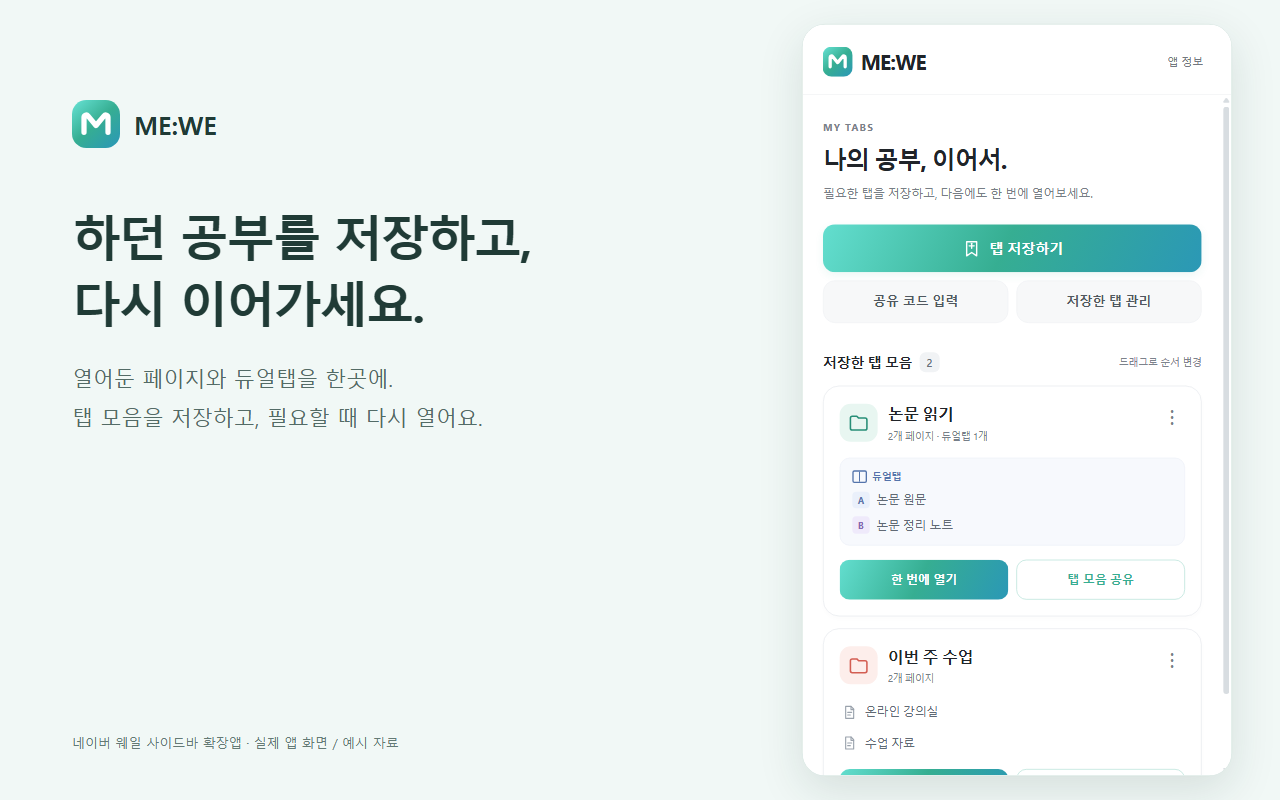
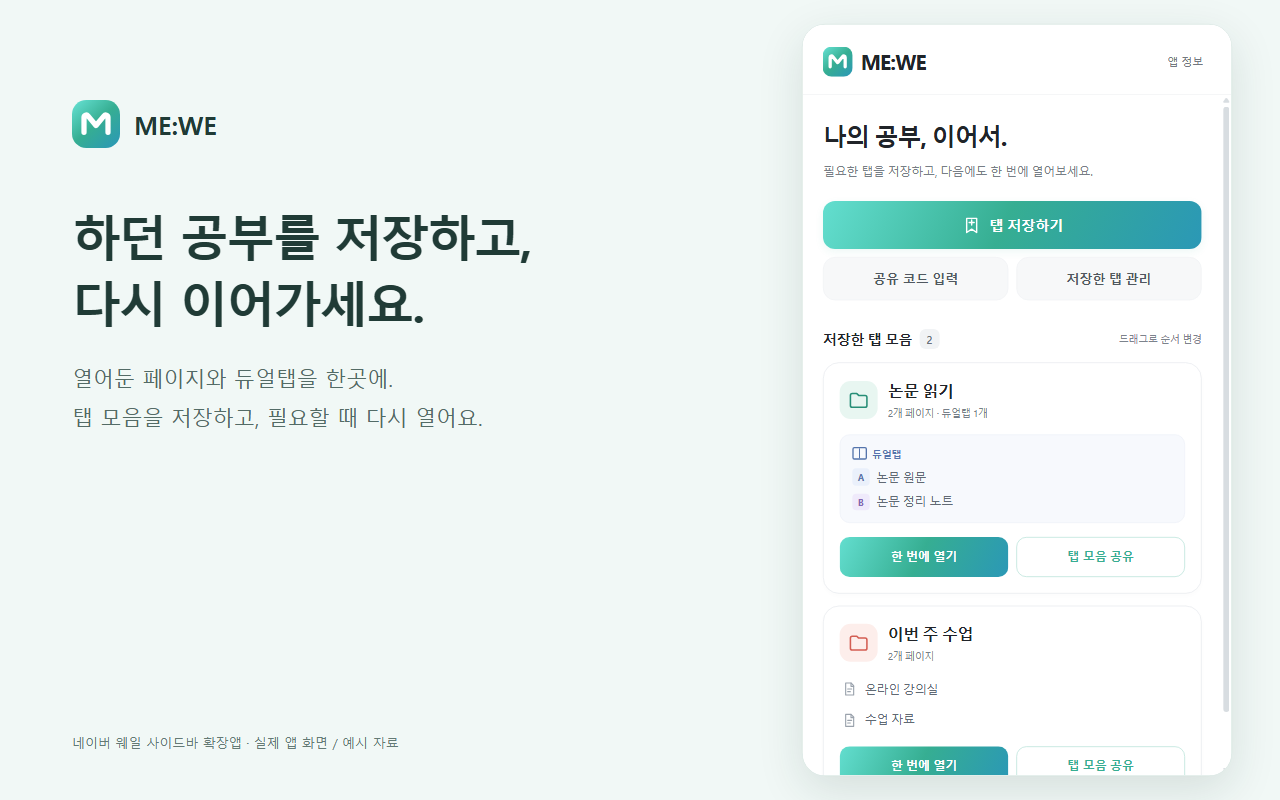
첫 화면 문구와 카드 중복 메뉴 제거

Changed region(s): [[0.625, 0.1562, 0.9375, 0.75], [0.6562, 0.7812, 0.875, 0.9688], [0.875, 0.4062, 0.9375, 0.4688]]

diff --git a/docs/privacy/index.html b/docs/privacy/index.html
@@ -3,5 +3,5 @@
 <section><h2>공유할 때 서버로 전송하는 정보</h2><p>공유 코드 복사를 누르면 미리보기에 표시된 탭 모음 이름과 공유 가능한 웹페이지 제목·URL·순서·듀얼탭 구성·페이지 식별자, 익명 사용자 ID, 생성·만료 시각 및 데이터 형식 버전을 Google Firebase Cloud Firestore에 저장합니다. 목적은 공유 코드 생성과 해당 탭 모음의 전달입니다.</p><p>로컬 파일의 이름·경로·내용과 브라우저 탭 ID는 공유 문서에서 제외합니다. 쿠키, 웹사이트 로그인 세션, 페이지 본문을 수집해 전송하지 않습니다. 다만 웹 주소 자체에는 검색어, 개인 식별 정보 또는 문서 접근 토큰이 포함될 수 있으므로 공유 전에 주소를 확인해야 합니다.</p><p>공유와 받기는 선택 기능입니다. 이를 사용하지 않아도 개인 탭 모음을 저장하고 다시 열 수 있습니다. 공유 기능을 처음 이용할 때 개인정보 수집·이용과 국외 이전에 각각 동의한 뒤 실행 버튼을 누르면 동의 기록을 저장하고 Firebase 익명 인증을 사용합니다. 체크만 하고 닫으면 동의 기록이나 인증 요청을 만들지 않습니다. 같은 브라우저에서는 공유하기·공유받기에 동의를 공통 적용하며, 동의 범위 변경·기록 초기화 또는 다른 브라우저에서 이용할 때는 다시 동의를 받습니다. 이름·이메일·비밀번호를 입력하는 별도 회원가입을 요구하지 않습니다.</p></section>
 <section><h2>공유 범위와 유효기간</h2><p>공유 코드를 알고 있는 사람은 앱을 통해 유효기간 안에 공유된 페이지 목록을 확인할 수 있습니다. 코드 소지는 원본 웹사이트의 로그인·열람 권한을 대신하지 않습니다. 공유 유효기간은 생성 시점부터 7일입니다.</p><p>정상 생성한 공유 코드는 7일 후 조회가 차단됩니다. 코드 만료 즉시 문서가 삭제되는 것은 아닙니다. 담당자 정희진이 만료 자료를 매주 정리하며 공유 문서는 생성 후 최대 14일 이내에 운영 데이터베이스에서 삭제합니다. 현재 서버의 자동 삭제 작업은 사용하지 않습니다.</p><p>저장한 탭 모음을 수정·삭제하거나 앱을 제거해도 이미 생성한 서버 공유본은 삭제되지 않습니다. 현재 앱에는 공유본 삭제·중단 버튼이 없습니다. 삭제·처리 정지는 문의 이메일로 요청할 수 있습니다. 받는 사람이 이미 저장한 복사본까지 원격으로 회수할 수는 없습니다.</p></section>
 <section><h2>외부 서비스 및 처리 위치</h2><p>Google Firebase의 Authentication은 익명 인증을, Cloud Firestore는 공유 정보 저장·조회를 담당합니다. Firebase 인증 서비스는 부정 사용 방지를 위해 IP 주소와 브라우저 정보 등을 처리할 수 있습니다. 별도의 광고·사용 분석 SDK는 앱에 포함하지 않습니다.</p><p>공유 문서를 저장하는 Cloud Firestore 데이터베이스의 설정 위치는 대한민국 서울(asia-northeast3)입니다. Firebase Authentication은 이 설정과 별개로 미국에서 처리됩니다.</p><p>인증 정보의 국외 처리 수탁자는 Google LLC(Firebase)이며, 이전 국가는 미국입니다. 공유 생성 또는 코드 확인 시 HTTPS 통신으로 임시 사용자 ID, 인증·갱신 토큰, IP 주소 및 브라우저 정보가 처리됩니다. 목적은 요청자 인증, 공유 서비스 제공 및 부정 사용 방지입니다. Google의 문의 창구는 아래 Firebase 지원 링크에서 확인할 수 있습니다.</p><p>익명 인증 계정은 공유 인증 유지 기간 동안 보관하며, 이용 종료·동의 철회·계정 삭제를 요청하면 필요한 본인 확인 후 삭제 처리합니다. 앱 삭제만으로 서버 인증 계정이 삭제되지는 않습니다. Firebase 안내에 따르면 인증 IP 로그는 수 주 보관되고 계정 삭제 후 인증 정보는 운영·백업 시스템에서 최대 180일 이내 제거됩니다. 이 공급자 보관 기간은 ME:WE 공유 문서의 최대 14일 보관 기간과 다릅니다.</p><p>국외 처리를 거부하려면 공유 기능에 동의하지 않으면 됩니다. 거부 시 공유 생성·코드 확인은 이용할 수 없지만 개인 탭 모음 저장·수정·열기는 계속 사용할 수 있습니다. 이미 동의한 경우 앱 정보의 ‘이 기기에서 공유 사용 중지’로 동의 기록과 받은 미리보기를 삭제하고 추가 공유 요청을 중단할 수 있습니다. 이는 이미 전송된 서버 자료나 인증 계정을 삭제하는 절차가 아니므로, 서버 정보 삭제·처리 정지·동의 철회는 담당자에게 요청할 수 있습니다. 웹페이지를 열면 해당 사이트에 직접 접속하며 그 사이트의 개인정보 처리방침이 적용됩니다.</p><p><a href="https://firebase.google.com/support/privacy" rel="noopener noreferrer">Firebase 개인정보 및 보안 안내</a></p><p><a href="https://firebase.google.com/support" rel="noopener noreferrer">Firebase 지원·문의</a></p></section>
-<section><h2>보관과 삭제</h2><p>개인 탭 모음은 사용자가 카드 메뉴에서 삭제할 수 있습니다. 삭제는 브라우저 탭이나 원본 파일을 삭제하지 않습니다. 확장앱 제거 시 브라우저가 앱의 로컬 저장소를 제거하며, 이것은 Firebase의 공유 문서나 익명 계정 삭제를 뜻하지 않습니다.</p><p>탭 실행 추적용 세션 정보는 브라우저 종료 또는 확장앱 다시 로드 시 초기화됩니다. 서버 공유 문서와 익명 계정은 각각 별도 삭제가 필요합니다.</p><p>문의 시 이메일 주소와 문의 내용·첨부 자료를 문의 응대와 권리 행사 처리 목적으로 이용합니다. 메일과 개인 정보가 포함된 처리 기록은 처리 완료 후 30일 이내 삭제하며, 삭제 시 휴지통의 사본도 함께 정리합니다. 문의에 불필요한 개인 정보는 보내지 마세요.</p><p>삭제 대상 전자 기록은 운영 저장소에서 삭제해 복구·재사용하지 않도록 처리합니다. 별도의 민감정보·고유식별정보 입력을 요구하지 않으며 브라우저 쿠키나 웹사이트 로그인 정보도 수집하지 않습니다. 서비스 제공 과정에서 Google이 처리하는 로그·백업은 위 공급자 정책을 따릅니다.</p></section>
+<section><h2>보관과 삭제</h2><p>개인 탭 모음은 사용자가 ‘저장한 탭 관리’에서 삭제할 수 있습니다. 삭제는 브라우저 탭이나 원본 파일을 삭제하지 않습니다. 확장앱 제거 시 브라우저가 앱의 로컬 저장소를 제거하며, 이것은 Firebase의 공유 문서나 익명 계정 삭제를 뜻하지 않습니다.</p><p>탭 실행 추적용 세션 정보는 브라우저 종료 또는 확장앱 다시 로드 시 초기화됩니다. 서버 공유 문서와 익명 계정은 각각 별도 삭제가 필요합니다.</p><p>문의 시 이메일 주소와 문의 내용·첨부 자료를 문의 응대와 권리 행사 처리 목적으로 이용합니다. 메일과 개인 정보가 포함된 처리 기록은 처리 완료 후 30일 이내 삭제하며, 삭제 시 휴지통의 사본도 함께 정리합니다. 문의에 불필요한 개인 정보는 보내지 마세요.</p><p>삭제 대상 전자 기록은 운영 저장소에서 삭제해 복구·재사용하지 않도록 처리합니다. 별도의 민감정보·고유식별정보 입력을 요구하지 않으며 브라우저 쿠키나 웹사이트 로그인 정보도 수집하지 않습니다. 서비스 제공 과정에서 Google이 처리하는 로그·백업은 위 공급자 정책을 따릅니다.</p></section>
 <section><h2>보호 조치와 변경 안내</h2><p>서버 통신에는 HTTPS와 Firebase 인증 토큰을 사용합니다. Firestore 규칙은 전체 목록 조회와 공유본 수정을 차단하고, 유효기간 및 생성 데이터 형식을 확인합니다. 공유 코드와 주소를 전달할 상대는 신중하게 선택해 주세요.</p><p>이 안내는 현재 0.3.1 구현을 기준으로 작성했습니다. 2026년 10월 23일에는 화면의 ‘탭 모음’ 명칭과 사용자가 요청한 클립보드 붙여넣기 처리를 반영했습니다. 서버로 보내는 정보·처리 목적·보관 기간과 기존 공유 동의 범위는 동일합니다. 내용이 바뀌면 앱 정보와 공개 개인정보 페이지에 변경 내용·시행일을 안내하며, 처리 목적·항목·보관 방법이 변경되면 실제 구현과 필요한 동의 절차도 함께 갱신합니다.</p></section></main></body></html>

diff --git a/features/study-widget/view.js b/features/study-widget/view.js
@@ -46,7 +46,7 @@ export function mount(container, services) {
   }, "btn");
   manage.setAttribute("aria-pressed", "false");
   container.replaceChildren(
-    el("div", { className: "intro" }, el("span", { className: "intro-label" }, "MY TABS"), el("h1", {}, "나의 공부, 이어서."), el("p", { className: "muted" }, "필요한 탭을 저장하고, 다음에도 한 번에 열어보세요.")),
+    el("div", { className: "intro" }, el("h1", {}, "나의 공부, 이어서."), el("p", { className: "muted" }, "필요한 탭을 저장하고, 다음에도 한 번에 열어보세요.")),
     capture,
     el("div", { className: "actions" },
       button("공유 코드 입력", () => openReceive(services), "btn"),
@@ -68,16 +68,8 @@ export function mount(container, services) {
         const card = el("article", { className: "card workspace-card", draggable: true, tabIndex: 0, "data-workspace-id": w.id, "aria-label": w.name, "aria-keyshortcuts": "Alt+ArrowUp Alt+ArrowDown" });
         const tone = [...w.id].reduce((sum, char) => sum + char.charCodeAt(0), 0) % 7;
         const folder = el("span", { className: `workspace-symbol tone-${tone}`, "aria-hidden": "true" }, icon("folder"));
-        const menu = el("div", { className: "workspace-menu", hidden: true });
-        const toggle = button("⋮", () => { menu.hidden = !menu.hidden; }, "icon-button");
-        toggle.setAttribute("aria-label", `${w.name} 메뉴`);
-        toggle.hidden = managing;
-        menu.append(
-          button("수정", () => { menu.hidden = true; openEditor(services, w); }, "text-button"),
-          button("삭제", () => { menu.hidden = true; confirmDelete(w); }, "text-button danger")
-        );
         card.append(
-          el("div", { className: "workspace-card-header" }, folder, el("div", { className: "workspace-heading" }, el("h3", {}, w.name), el("p", { className: "muted" }, `${w.pages.length}개 페이지${dualCount ? ` · 듀얼탭 ${dualCount}개` : ""}`)), toggle, menu),
+          el("div", { className: "workspace-card-header" }, folder, el("div", { className: "workspace-heading" }, el("h3", {}, w.name), el("p", { className: "muted" }, `${w.pages.length}개 페이지${dualCount ? ` · 듀얼탭 ${dualCount}개` : ""}`))),
           el("div", { className: "site-list" }, ...groups.map((group) => group.dual
             ? el("div", { className: "saved-dual-group" }, el("span", { className: "dual-badge" }, "듀얼탭"), ...group.pages.map((p, i) => el("div", { className: "saved-page", title: p.title }, el("span", { className: "page-side", "aria-label": i === 0 ? "왼쪽 페이지" : "오른쪽 페이지" }, i === 0 ? "A" : "B"), el("span", { className: "saved-page-title" }, p.title))))
             : el("div", { className: "saved-page single-page", title: group.pages[0].title }, icon("page"), el("span", { className: "saved-page-title" }, group.pages[0].title)))),
@@ -87,7 +79,7 @@ export function mount(container, services) {
         const action = button("", (event) => busy(event.currentTarget, () => running ? services.closeWorkspace(w) : services.launch(w), services.toast), `btn ${running ? "workspace-close" : "primary workspace-open"}`);
         action.textContent = running ? "한 번에 닫기" : "한 번에 열기";
         action.setAttribute("aria-label", action.textContent);
-        const share = button("", () => { menu.hidden = true; openShare(services, w); }, "btn workspace-share");
+        const share = button("", () => openShare(services, w), "btn workspace-share");
         share.setAttribute("aria-label", "탭 모음 공유");
         share.textContent = "탭 모음 공유";
         card.querySelector(".workspace-actions").append(action, share);

diff --git a/shared/privacy-content.js b/shared/privacy-content.js
@@ -35,7 +35,7 @@ export const privacy = {
       "국외 처리를 거부하려면 공유 기능에 동의하지 않으면 됩니다. 거부 시 공유 생성·코드 확인은 이용할 수 없지만 개인 탭 모음 저장·수정·열기는 계속 사용할 수 있습니다. 이미 동의한 경우 앱 정보의 ‘이 기기에서 공유 사용 중지’로 동의 기록과 받은 미리보기를 삭제하고 추가 공유 요청을 중단할 수 있습니다. 이는 이미 전송된 서버 자료나 인증 계정을 삭제하는 절차가 아니므로, 서버 정보 삭제·처리 정지·동의 철회는 담당자에게 요청할 수 있습니다. 웹페이지를 열면 해당 사이트에 직접 접속하며 그 사이트의 개인정보 처리방침이 적용됩니다."
     ], links: [{ label: "Firebase 개인정보 및 보안 안내", url: "https://firebase.google.com/support/privacy" }, { label: "Firebase 지원·문의", url: "https://firebase.google.com/support" }] },
     { title: "보관과 삭제", paragraphs: [
-      "개인 탭 모음은 사용자가 카드 메뉴에서 삭제할 수 있습니다. 삭제는 브라우저 탭이나 원본 파일을 삭제하지 않습니다. 확장앱 제거 시 브라우저가 앱의 로컬 저장소를 제거하며, 이것은 Firebase의 공유 문서나 익명 계정 삭제를 뜻하지 않습니다.",
+      "개인 탭 모음은 사용자가 ‘저장한 탭 관리’에서 삭제할 수 있습니다. 삭제는 브라우저 탭이나 원본 파일을 삭제하지 않습니다. 확장앱 제거 시 브라우저가 앱의 로컬 저장소를 제거하며, 이것은 Firebase의 공유 문서나 익명 계정 삭제를 뜻하지 않습니다.",
       "탭 실행 추적용 세션 정보는 브라우저 종료 또는 확장앱 다시 로드 시 초기화됩니다. 서버 공유 문서와 익명 계정은 각각 별도 삭제가 필요합니다.",
       "문의 시 이메일 주소와 문의 내용·첨부 자료를 문의 응대와 권리 행사 처리 목적으로 이용합니다. 메일과 개인 정보가 포함된 처리 기록은 처리 완료 후 30일 이내 삭제하며, 삭제 시 휴지통의 사본도 함께 정리합니다. 문의에 불필요한 개인 정보는 보내지 마세요.",
       "삭제 대상 전자 기록은 운영 저장소에서 삭제해 복구·재사용하지 않도록 처리합니다. 별도의 민감정보·고유식별정보 입력을 요구하지 않으며 브라우저 쿠키나 웹사이트 로그인 정보도 수집하지 않습니다. 서비스 제공 과정에서 Google이 처리하는 로그·백업은 위 공급자 정책을 따릅니다."

diff --git a/shared/refinement.css b/shared/refinement.css
@@ -10,7 +10,6 @@ button:focus-visible,a:focus-visible,input:focus-visible,select:focus-visible,te
 .header-caption{font-size:11px;color:#777e86;white-space:nowrap}
 .view{padding:24px 20px 30px;scrollbar-width:thin;scrollbar-color:#d8dde1 transparent}
 .intro{margin-bottom:20px}
-.intro-label{display:block;font-size:10px;letter-spacing:1.2px;font-weight:700;color:#7b828a;margin-bottom:7px}
 .intro h1{font-size:24px;letter-spacing:-1px;line-height:1.4;font-weight:750}
 .intro .muted{margin:8px 0 0;line-height:1.7;font-size:12px;color:#777e86;word-break:keep-all}
 .btn{min-height:44px;padding:11px 14px;font-size:13px;font-weight:650;border-color:#e4e8eb;transition:background .15s,border-color .15s}
@@ -46,10 +45,6 @@ button:focus-visible,a:focus-visible,input:focus-visible,select:focus-visible,te
 .workspace-heading .muted{font-size:10px;line-height:1.5;margin:3px 0 0;color:#777f89}
 .icon-button{color:#777f89}
 .icon-button:hover{background:#f3f5f7;color:#303943}
-.workspace-card-header>.icon-button{height:30px;width:26px;min-width:26px;line-height:1;align-self:flex-start;font-size:21px}
-.workspace-menu{position:absolute;right:0;top:34px;z-index:2;min-width:112px;padding:5px;background:#fff;border:1px solid #e4e8ed;border-radius:12px;box-shadow:0 8px 24px #1d29351a}
-.workspace-menu button{display:block;width:100%;text-align:left;padding:8px 11px;min-height:36px;border-radius:7px}
-.workspace-menu button:hover{background:#f5f7f9}
 .text-button{color:#434d58}
 .text-button.danger{color:var(--color-error)}
 .study-widget .workspace-card .site-list{margin:14px 0;font-size:12px;line-height:1.5;color:#616a74;display:grid;gap:7px}

diff --git a/features/study-widget/reorder.js b/features/study-widget/reorder.js
@@ -51,7 +51,6 @@ export function workspaceReorder(container, list, { move, refresh, toast }) {
     const card = event.target.closest(".workspace-card");
     if (!card || blocked || saving || cards().length < 2) { event.preventDefault(); return; }
     dragged = card;
-    list.querySelectorAll(".workspace-menu").forEach((menu) => { menu.hidden = true; });
     event.dataTransfer.effectAllowed = "move";
     event.dataTransfer.setData("text/plain", card.dataset.workspaceId);
     pointerY = event.clientY;

diff --git a/docs/final-review.md b/docs/final-review.md
@@ -1,10 +1,10 @@
 # ME:WE 버전별 검토 결과
 
-## 0.3.1 리뷰 반영 — 2026-10-23
+## 0.3.1 리뷰 반영 — 2026-10-23 ~ 2026-10-27
 
 추가 피드백 반영: 링크 추가 버튼을 우측 하단에 작게 배치하고, 관리 모드에 수정·삭제 버튼을 표시했습니다. 복사 알림은 두 줄과 첫 문장 강조로 표시합니다. 공유 미리보기의 바로 열기는 먼저 저장한 모음을 실행합니다. UI 회귀 시험에서 관리 모드 전환, 저장 실패 시 실행 차단, 저장 성공 후 저장된 ID로 실행을 확인했고 단위 시험 33개를 다시 통과했습니다.
 
-화면 명칭, 새/기존 탭 모음 저장 위치, 한 번에 닫기 확인, 공유 전 안내·복사 후 알림, 공유 코드 붙여넣기·미리보기를 갱신했습니다. 기존 데이터 형식과 최초 공유 동의 범위는 유지합니다. 관리 모드에는 수정·삭제 버튼을 직접 표시하고, 기본 카드의 메뉴에서도 같은 기능을 제공합니다.
+화면 명칭, 새/기존 탭 모음 저장 위치, 한 번에 닫기 확인, 공유 전 안내·복사 후 알림, 공유 코드 붙여넣기·미리보기를 갱신했습니다. 기존 데이터 형식과 최초 공유 동의 범위는 유지합니다. 10월 27일에는 첫 화면의 영문 장식 문구와 기본 카드의 점 3개 메뉴를 제거해, 수정·삭제를 관리 모드에서만 하도록 정리했습니다.
 
 | 이번 실행 항목 | 결과·범위 |
 | --- | --- |

diff --git a/CHANGELOG.md b/CHANGELOG.md
@@ -2,7 +2,9 @@
 
 아직 웨일스토어에 공개된 버전은 없습니다. 날짜는 개발·검증일이며, 현재 개발 버전은 **0.3.1**입니다.
 
-## 0.3.1 리뷰 반영 — 2026-10-23
+## 0.3.1 리뷰 반영 — 2026-10-23 ~ 2026-10-27
+
+- 첫 화면의 ‘MY TABS’를 제거하고, 탭 모음 카드의 점 3개 메뉴를 없애 수정·삭제를 ‘저장한 탭 관리’로 통일
 
 - 링크 추가 버튼을 입력 영역 우측 하단에 작게 배치하고, 관리 모드에서 카드에 수정·삭제 버튼을 직접 표시
 - 공유 복사 알림을 두 줄로 표시하고 첫 문장을 강조; ‘바로 열기’는 모음 저장 성공 후 실행하여 카드에서 닫기 지원
@@ -13,7 +15,7 @@
 - 공유 코드 입력란의 붙여넣기 버튼과 ‘탭 불러오기’, 탭 모음 카드 형태의 미리보기·저장·바로 열기 제공
 - 공유 전 로컬 파일 제외와 로그인·권한·기기 환경에 따라 같은 화면이 열리지 않을 수 있음을 안내
 - 클립보드 읽기 권한과 사용자 요청 시에만 읽는 동작을 앱 정보·개인정보 처리방침에 안내
-- 기존 저장 데이터 형식과 공유 동의 범위, 카드 메뉴의 수정·삭제 동작 유지
+- 기존 저장 데이터 형식과 공유 동의 범위 유지
 
 아래 0.3.0 항목은 이전 버전의 변경·검증 기록입니다. 현재 버전의 확인 범위는 [검토 결과](docs/final-review.md)를 확인하세요.
 

diff --git a/docs/user-guide.md b/docs/user-guide.md
@@ -29,7 +29,7 @@
 
 ## 수정과 정렬
 
-**저장한 탭 관리**를 누르면 카드에 **수정·삭제** 버튼이 나타납니다. **관리 완료**로 열기·공유 버튼 화면에 돌아갑니다. 기본 화면의 카드 `⋮`에서도 수정·삭제할 수 있습니다. 수정 화면의 페이지 `⋮ → 탭 모음에서 제거`는 저장할 때 반영됩니다. 듀얼탭 한쪽을 제거하면 남은 쪽은 일반탭으로 저장됩니다. 모든 페이지를 제거한 빈 탭 모음은 저장되지 않습니다.
+**저장한 탭 관리**를 누르면 카드에 **수정·삭제** 버튼이 나타납니다. **관리 완료**로 열기·공유 버튼 화면에 돌아갑니다. 수정 화면의 페이지 `⋮ → 탭 모음에서 제거`는 저장할 때 반영됩니다. 듀얼탭 한쪽을 제거하면 남은 쪽은 일반탭으로 저장됩니다. 모든 페이지를 제거한 빈 탭 모음은 저장되지 않습니다.
 
 탭 모음 전체를 삭제할 때는 확인창에서 **삭제**를 눌러야 반영됩니다. 취소하면 그대로 유지됩니다. 삭제는 되돌릴 수 없으며 이미 열어둔 페이지나 전달한 공유본에는 영향을 주지 않습니다.
 

diff --git a/docs/release-checklist.md b/docs/release-checklist.md
@@ -1,6 +1,6 @@
 # ME:WE 제출 체크리스트
 
-기준일 **2026-10-23** · 앱 **0.3.1** · **리뷰 반영 / 스토어 미제출**
+기준일 **2026-10-27** · 앱 **0.3.1** · **리뷰 반영 / 스토어 미제출**
 
 상세 시험 범위는 [검토 결과](final-review.md)에 기록합니다. 아래 0.3.0 완료 기록과 0.3.1 추가 확인을 구분합니다.
 
@@ -10,7 +10,7 @@
 - [x] 한 번에 닫기 확인창의 취소·모두 닫기와 기존 탭 보호
 - [x] 붙여넣기·읽기 실패 안내, 탭 불러오기 전 서버 조회 없음, 카드 미리보기의 저장·바로 열기
 - [x] 공유 전 로컬 파일·권한·기기 차이 안내와 복사 후 독립 사본 알림
-- [x] 기존 저장 데이터·최초 공유 동의 유지, 관리 모드 카드의 수정·삭제와 기본 카드 메뉴 확인
+- [x] 기존 저장 데이터·최초 공유 동의 유지, 관리 모드 카드의 수정·삭제 확인
 - [x] 새 버전의 화면·설명·권한 안내·개인정보 생성물·설치 ZIP 일치
 
 ## 0.3.0 코드·문서·배포 파일 검증 기록

diff --git a/tests/integration-checklist.md b/tests/integration-checklist.md
@@ -34,7 +34,7 @@
 - [ ] 확장앱 로드 전에 이미 열린 듀얼탭도 웹페이지 새로고침 없이 양쪽을 가져온다.
 - [ ] 왼쪽·오른쪽·일반탭 중 어디를 클릭했든 저장 목록의 좌우 순서가 같다.
 - [ ] 브라우저 재시작 후 사용자 프리셋이 유지된다.
-- [ ] 카드 메뉴의 삭제는 확인창을 표시한다. 취소·저장 실패 시 원본을 유지하며 확인 후 해당 작업공간만 삭제한다.
+- [ ] 기본 카드에 점 3개 메뉴가 없고, ‘저장한 탭 관리’에서 카드의 수정·삭제 버튼이 나타난다. 삭제는 확인창을 표시하고 취소·저장 실패 시 원본을 유지한다.
 - [ ] 기존 설치 폴더에 업데이트하고 브라우저를 재시작해도 작업공간·순서·듀얼 구성·최초 공유 동의가 유지된다.
 - [ ] 카드 제목·빈 공간을 잡아 위아래로 드래그하면 표시된 선 위치로 이동한다.
 - [ ] 화면 끝에서 드래그하면 목록이 자동 스크롤되고, Escape로 취소하면 원래 순서가 유지된다.

diff --git a/PRIVACY.md b/PRIVACY.md
@@ -56,7 +56,7 @@ Google Firebase의 Authentication은 익명 인증을, Cloud Firestore는 공유
 
 ## 보관과 삭제
 
-개인 탭 모음은 사용자가 카드 메뉴에서 삭제할 수 있습니다. 삭제는 브라우저 탭이나 원본 파일을 삭제하지 않습니다. 확장앱 제거 시 브라우저가 앱의 로컬 저장소를 제거하며, 이것은 Firebase의 공유 문서나 익명 계정 삭제를 뜻하지 않습니다.
+개인 탭 모음은 사용자가 ‘저장한 탭 관리’에서 삭제할 수 있습니다. 삭제는 브라우저 탭이나 원본 파일을 삭제하지 않습니다. 확장앱 제거 시 브라우저가 앱의 로컬 저장소를 제거하며, 이것은 Firebase의 공유 문서나 익명 계정 삭제를 뜻하지 않습니다.
 
 탭 실행 추적용 세션 정보는 브라우저 종료 또는 확장앱 다시 로드 시 초기화됩니다. 서버 공유 문서와 익명 계정은 각각 별도 삭제가 필요합니다.
 
